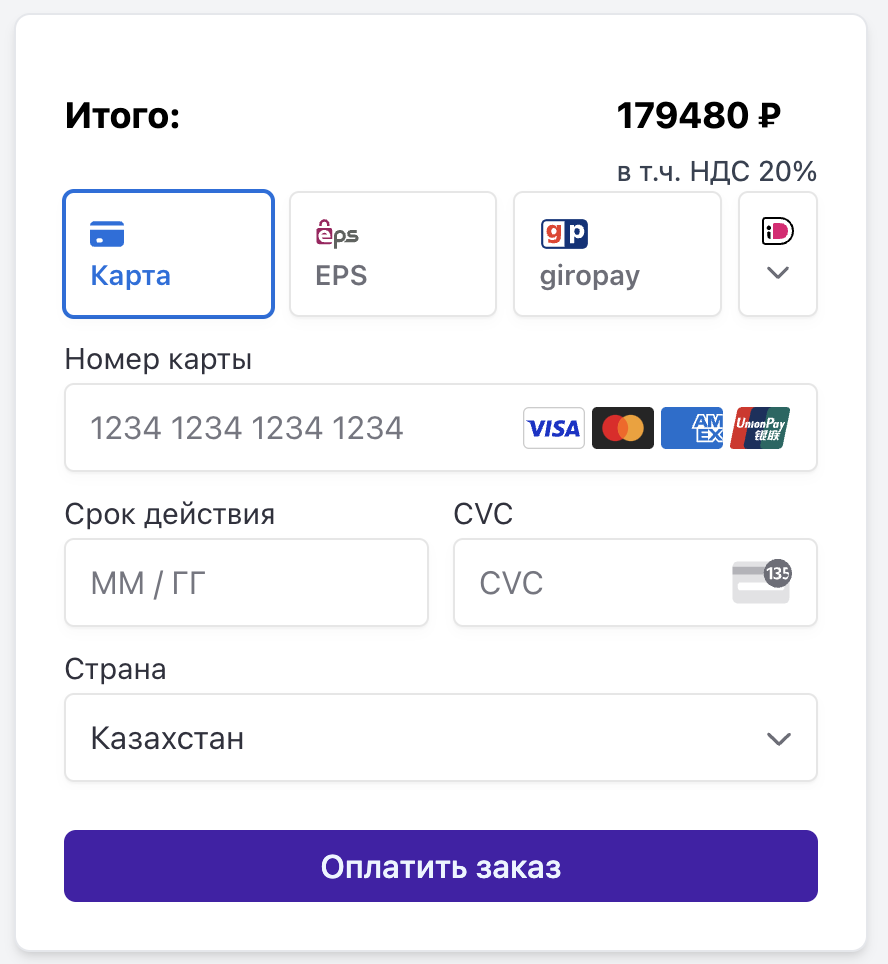
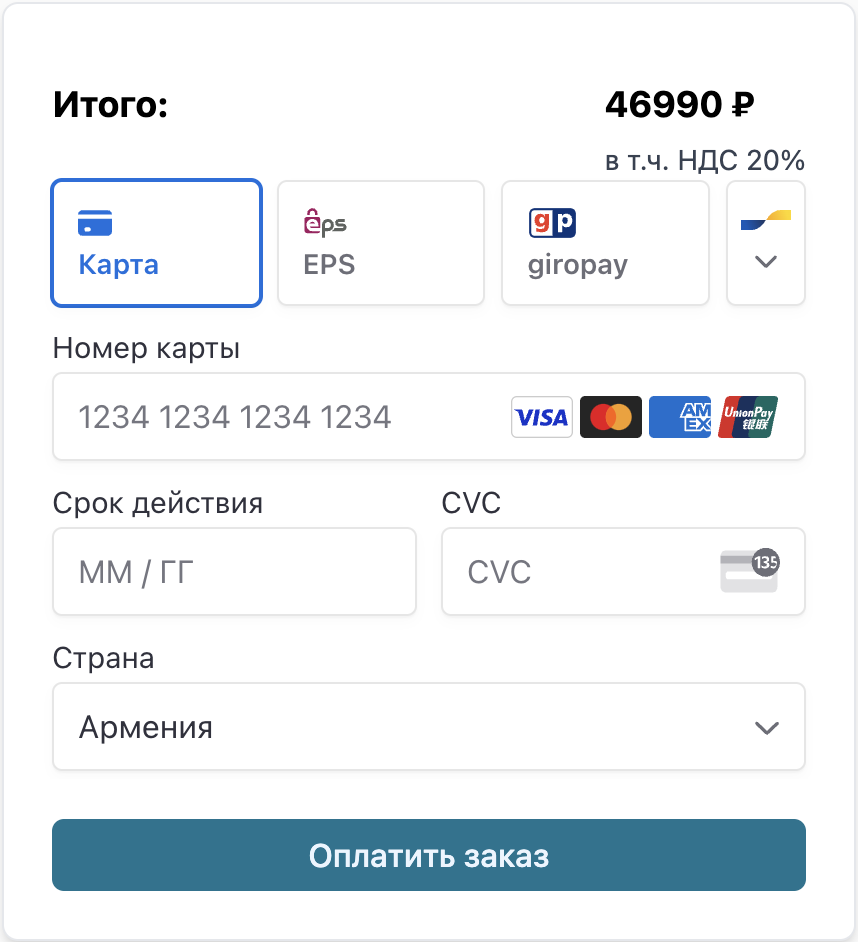
Done

diff --git a/client/src/components/stripe/CheckoutForm.tsx b/client/src/components/stripe/CheckoutForm.tsx
@@ -119,7 +119,7 @@ export default function CheckoutForm({deliveryState}: IDeliveryState) {
       <PaymentElement id="payment-element" />
       <button className="w-full" disabled={isProcessing || !stripe || !elements} id="submit">
         <div id="button-text">
-          {isProcessing ? <p className="mt-4">Платеж в обработке...</p> : <button id="orderBtn" data-userid='{user.id}' type="button" className="mt-6 w-full rounded-md py-1.5 font-medium text-blue-50 bg-[#4520aa] hover:bg-[#4520aa]/80">Оплатить заказ</button>}
+          {isProcessing ? <p className="mt-4">Платеж в обработке...</p> : <button id="orderBtn" data-userid='{user.id}' type="button" className="mt-6 w-full rounded-md py-1.5 font-medium text-blue-50 bg-[#0d7490] hover:bg-[#0d7490]/80">Оплатить заказ</button>}
         </div>
       </button>
       {/* Show any error or success messages */}

diff --git a/client/src/components/cart/Cart.tsx b/client/src/components/cart/Cart.tsx
@@ -174,7 +174,7 @@ export const Cart = () => {
                 </div>
               </div>
               {billData ? <></> :
-              <button id="orderBtn" data-userid='{user.id}' onClick={handleBill} type="button" className="mt-6 w-full rounded-md py-1.5 font-medium text-blue-50 bg-[#4520aa] hover:bg-[#4520aa]/80">Перейти к оплате</button>}
+              <button id="orderBtn" data-userid='{user.id}' onClick={handleBill} type="button" className="mt-6 w-full rounded-md py-1.5 font-medium text-blue-50 bg-[#0d7490] hover:bg-[#0d7490]/80">Перейти к оплате</button>}
                 {stripePromise && clientSecret && (
                 <Elements stripe={stripePromise} options={{ clientSecret }}>
                 <CheckoutForm deliveryState={deliveryState}/>

diff --git a/server/db/seeders/20230616161403-SeedsPickPoints.js b/server/db/seeders/20230616161403-SeedsPickPoints.js
@@ -13,7 +13,7 @@ module.exports = {
           coords: JSON.stringify([55.758894, 37.609398]),
         },
         {
-          address: "Большая Серпуховская улица, 46с34, Москва,",
+          address: "Большая Серпуховская улица, 46с34, Москва",
           coords: JSON.stringify([55.721924, 37.624157]),
         },
         {
@@ -41,7 +41,7 @@ module.exports = {
           coords: JSON.stringify([55.712455, 37.645719]),
         },
         {
-          address: "Ленинградский проспект, 5с7, Москва,",
+          address: "Ленинградский проспект, 5с7, Москва",
           coords: JSON.stringify([55.779266, 37.577766]),
         },
       ],
